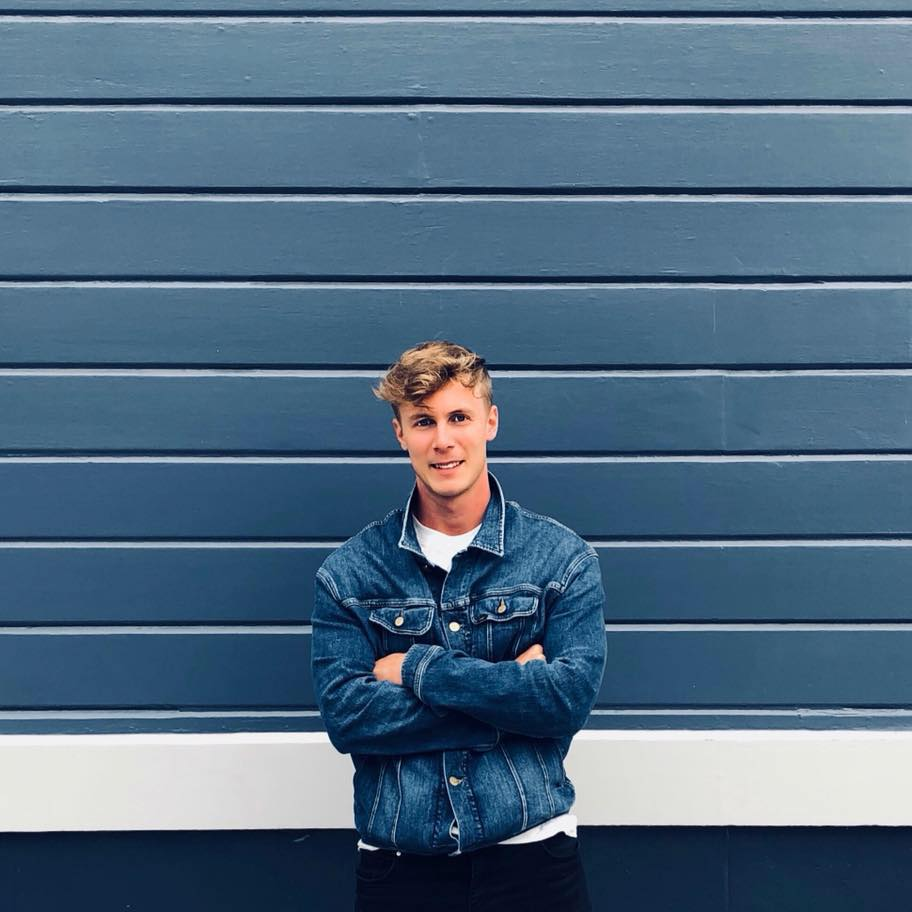
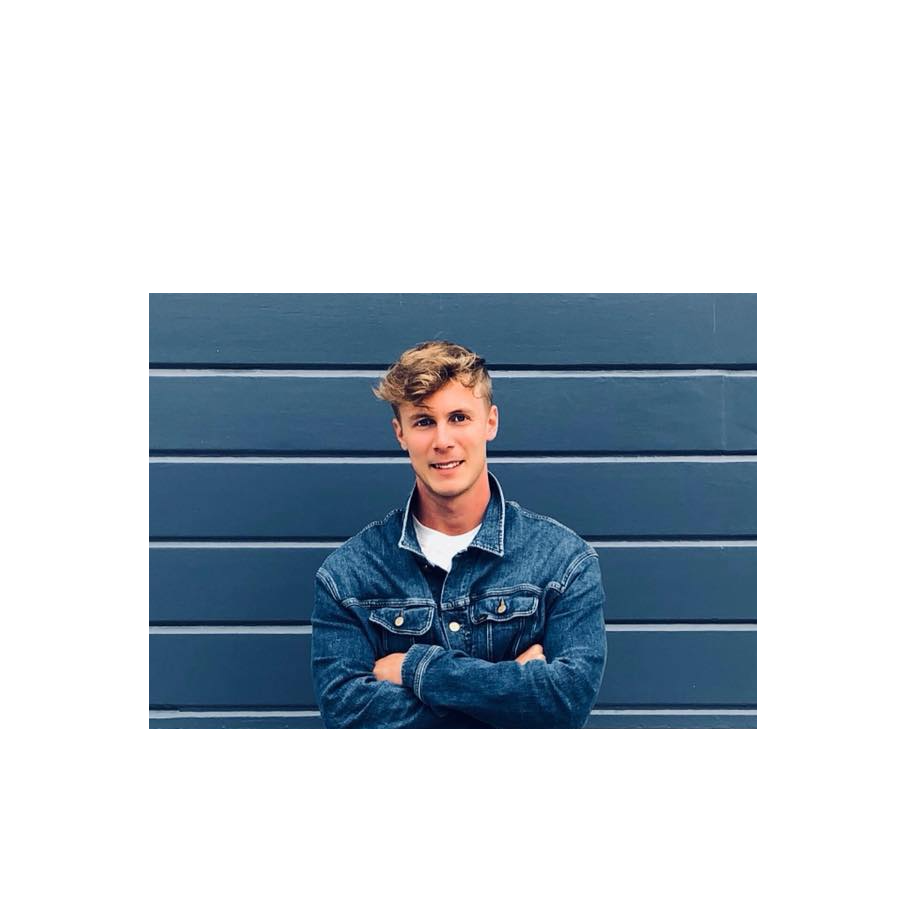
Updated finishing

diff --git a/style.css b/style.css
@@ -118,26 +118,24 @@ nav {
 .box {
 	color: black;
 	text-align: center;
-	padding: 10px;
+	padding: 3px;
 }
 
 .maincontainer {
-	width: 75%;
-	margin: auto;
+	width: 60%;
 	display: flex;
 	justify-content: space-around;
-	border: 10px solid #fab499;
 	flex-direction: column;
 	display: flex;
 	font-family: 'Open Sans', sans-serif;
-	font-size: 2.5vw;
-	margin: auto auto -80px auto;
+	font-size: 1.8vw;
+	margin: auto auto auto auto;
 }
 
 .imagebox {
-	width: 50%;
+	width: 75%;
 	min-height: 80vh;
-	margin: auto auto -100px auto;
+	margin: auto auto -200px auto;
 	display: flex;
 	align-items: center;
 	justify-content: center;

diff --git a/index.php b/index.php
@@ -6,18 +6,18 @@ usort($articles, "sortByDate"); //sorting articles by date
 
 <?php foreach ($articles as $article) : ?>
 	<?php $contentImage = $article['contentImg']; ?>
-	<div class="imagebox"><img class="contentimg" src="<?= $contentImage; ?> " alt="kalle"></div> <!-- Printing out image -->
+	<div class="imagebox"><img class="contentimg" src="<?= $contentImage; ?> " alt="pic"></div> <!-- Printing out image -->
 	<br>
 	<div class="maincontainer">
 		<div class="box title">
-			<h2><?= $article['title'] ?></h2>
+			<h1><?= $article['title'] ?></h1>
 		</div> <!-- Title -->
 		<br>
 		<div class="box"><?= ($article['content']) ?></div> <!-- Article -->
 		<br>
-		<div class="box"><?= $authors[$article['authorId']]['fullName'] ?></div> <!-- Author -->
+		<h2 class="box"><?= $authors[$article['authorId']]['fullName'] ?></h2> <!-- Author -->
 		<br>
-		<div class="box"><?= $article['publishDate'] ?></div> <!-- PublishDate -->
+		<h3 class="box"><?= $article['publishDate'] ?></h3> <!-- PublishDate -->
 		<br>
 		<div class="box">Likes: <?= $article['likeCounter'] ?></div> <!-- Likes -->
 		<br>
